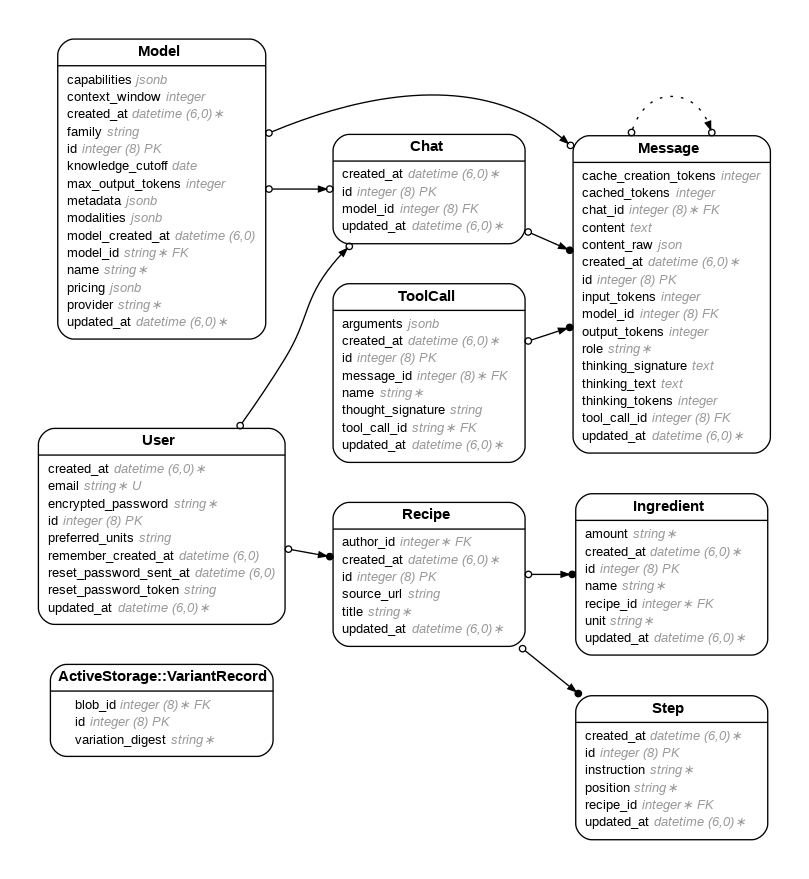
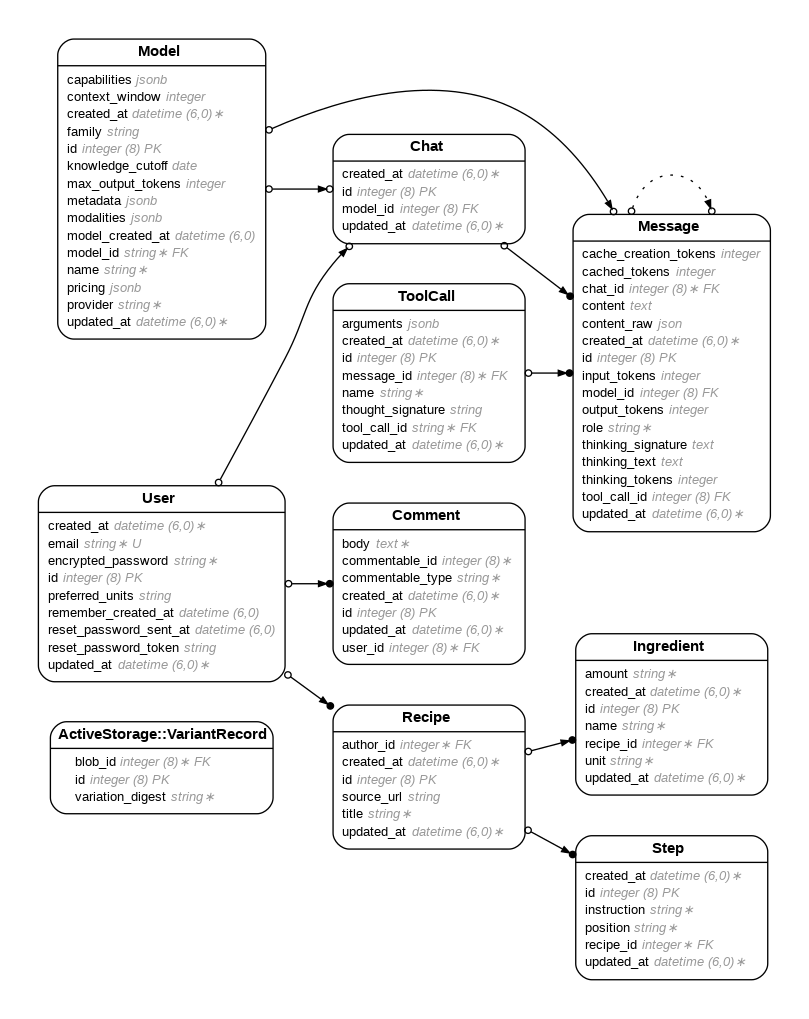
+rails migration succesful for comments

diff --git a/db/schema.rb b/db/schema.rb
@@ -10,7 +10,7 @@
 #
 # It's strongly recommended that you check this file into your version control system.
 
-ActiveRecord::Schema[8.0].define(version: 2026_02_17_185435) do
+ActiveRecord::Schema[8.0].define(version: 2026_02_22_000001) do
   # These are extensions that must be enabled in order to support this database
   enable_extension "pg_catalog.plpgsql"
 
@@ -47,6 +47,18 @@ ActiveRecord::Schema[8.0].define(version: 2026_02_17_185435) do
     t.datetime "updated_at", null: false
     t.bigint "model_id"
     t.index ["model_id"], name: "index_chats_on_model_id"
+  end
+
+  create_table "comments", force: :cascade do |t|
+    t.bigint "user_id", null: false
+    t.string "commentable_type", null: false
+    t.bigint "commentable_id", null: false
+    t.text "body", null: false
+    t.datetime "created_at", null: false
+    t.datetime "updated_at", null: false
+    t.index ["commentable_type", "commentable_id"], name: "index_comments_on_commentable"
+    t.index ["commentable_type", "commentable_id"], name: "index_comments_on_commentable_type_and_commentable_id"
+    t.index ["user_id"], name: "index_comments_on_user_id"
   end
 
   create_table "ingredients", force: :cascade do |t|
@@ -289,6 +301,7 @@ ActiveRecord::Schema[8.0].define(version: 2026_02_17_185435) do
   add_foreign_key "active_storage_attachments", "active_storage_blobs", column: "blob_id"
   add_foreign_key "active_storage_variant_records", "active_storage_blobs", column: "blob_id"
   add_foreign_key "chats", "models"
+  add_foreign_key "comments", "users"
   add_foreign_key "messages", "chats"
   add_foreign_key "messages", "models"
   add_foreign_key "messages", "tool_calls"

diff --git a/app/models/comment.rb b/app/models/comment.rb
@@ -1,5 +1,27 @@
 # frozen_string_literal: true
 
+# == Schema Information
+#
+# Table name: comments
+#
+#  id               :bigint           not null, primary key
+#  body             :text             not null
+#  commentable_type :string           not null
+#  created_at       :datetime         not null
+#  updated_at       :datetime         not null
+#  commentable_id   :bigint           not null
+#  user_id          :bigint           not null
+#
+# Indexes
+#
+#  index_comments_on_commentable                          (commentable_type,commentable_id)
+#  index_comments_on_commentable_type_and_commentable_id  (commentable_type,commentable_id)
+#  index_comments_on_user_id                              (user_id)
+#
+# Foreign Keys
+#
+#  fk_rails_...  (user_id => users.id)
+#
 class Comment < ApplicationRecord
   before_validation :strip_comment_body
 

diff --git a/app/models/recipe.rb b/app/models/recipe.rb
@@ -10,8 +10,6 @@
 #  author_id  :integer
 #
 class Recipe < ApplicationRecord
-  include Commentable
-
   scope :recent, -> { order(created_at: :desc) }
 
   belongs_to :author, required: true, class_name: "User", foreign_key: "author_id"

diff --git a/app/models/step.rb b/app/models/step.rb
@@ -10,8 +10,6 @@
 #  recipe_id   :integer
 #
 class Step < ApplicationRecord
-  include Commentable
-
   belongs_to :recipe, required: true, class_name: "Recipe", foreign_key: "recipe_id"
 
   validates :position, presence: true
